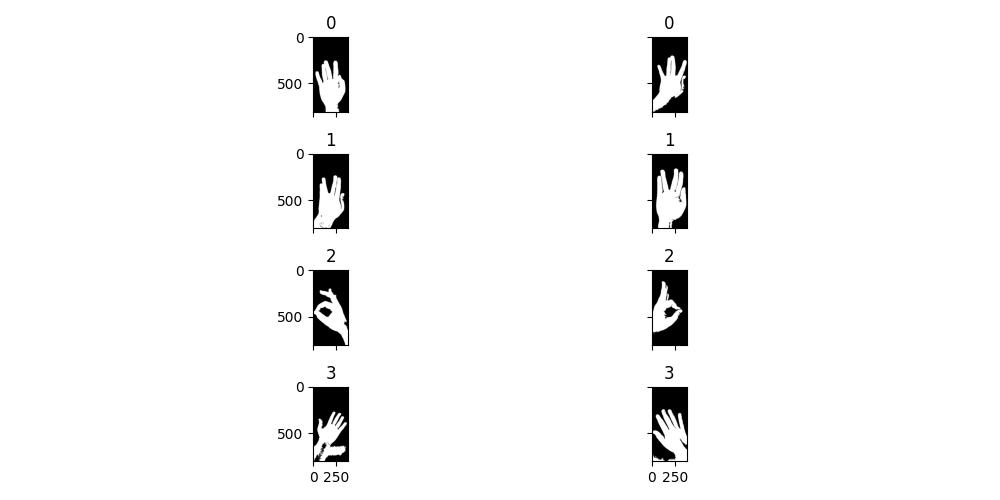
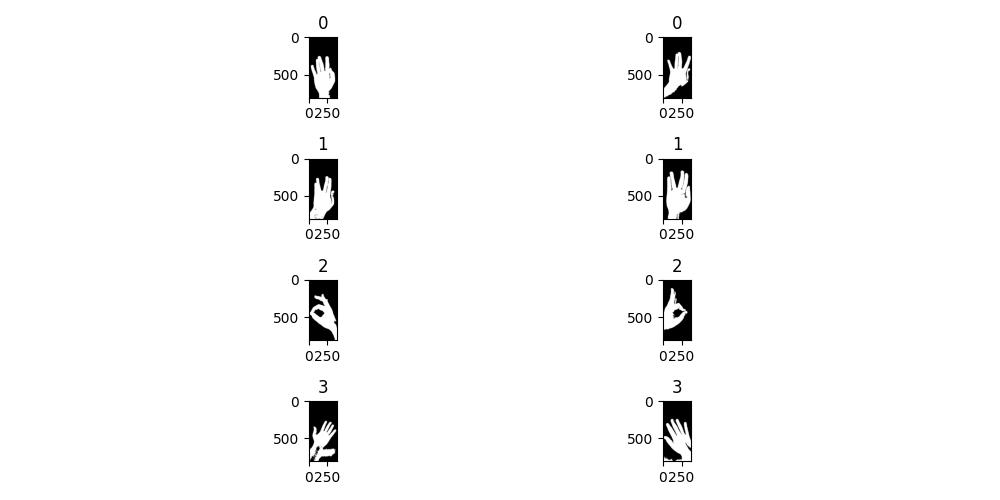
Feature: SVM

diff --git a/main.py b/main.py
@@ -1,4 +1,7 @@
 import src.database as database
+import src.features as features
+import src.classification as classification
+import src.helpers as helpers
 
 # ___________________________________________
 # PARAMETERS
@@ -11,14 +14,26 @@ percent = 8
 # MAIN
 # ___________________________________________
 if __name__ == '__main__':
+    # get data
     dataset_train, labels_train, dataset_test, labels_test, number_classes = database.get_train_and_test_dataset(data_dir, percent, scale_factor)
-    database.dataset_visualisation(dataset_train, labels_train, dataset_test, labels_test, number_classes, percent)
+    # database.dataset_visualisation(dataset_train, labels_train, dataset_test, labels_test, number_classes, percent)
 
     # mask visualisation
     dataset_train_mask, dataset_test_mask = database.dataset_mask(dataset_train, dataset_test)
-    database.dataset_visualisation(dataset_train_mask, labels_train, dataset_test_mask, labels_test, number_classes, percent, '_mask')
+    # database.dataset_visualisation(dataset_train_mask, labels_train, dataset_test_mask, labels_test, number_classes, percent, '_mask')
 
     # find contours and crop
     dataset_train_mask_contour, dataset_train_contour, dataset_test_mask_contour, dataset_test_contour = database.dataset_contours(dataset_train_mask, dataset_test_mask, dataset_train, dataset_test)
-    database.dataset_visualisation(dataset_train_mask_contour, labels_train, dataset_test_mask_contour, labels_test, number_classes, percent, '_mask_contour')
-    database.dataset_visualisation(dataset_train_contour, labels_train, dataset_test_contour, labels_test, number_classes, percent, '_contour')
+    # database.dataset_visualisation(dataset_train_mask_contour, labels_train, dataset_test_mask_contour, labels_test, number_classes, percent, '_mask_contour')
+    # database.dataset_visualisation(dataset_train_contour, labels_train, dataset_test_contour, labels_test, number_classes, percent, '_contour')
+
+    # compute HOG on dataset train original cropped
+    width, height = helpers.get_dimensions_for_resize(dataset_train_contour, dataset_test_contour)
+    train_features, train_images_hog = features.extract_features_hog(dataset_train_contour, width, height, False)
+    test_features, test_images_hog = features.extract_features_hog(dataset_test_contour, width, height, False)
+
+    # classification with SVM
+    clf = classification.svm_classification(train_features, labels_train)
+
+    # prediction
+    classification.prediction(clf, test_features, labels_test)

diff --git a/src/database.py b/src/database.py
@@ -19,24 +19,28 @@ def get_train_and_test_dataset(dataset_dir, percent, scale_factor):
     labels_test = []
 
     # get random indexes
-    random.seed(42)
+    random.seed(42) #42
     indexes = random.sample(range(0, 9), percent)
 
     # read all data and split in train and set based on random indexes
     for class_index in range(len(glob.glob(dataset_dir + '/*'))):
         for index, path in enumerate(glob.glob(dataset_dir + '/' + str(class_index) + '/*')):
             img_original = io.imread(path)
+
             # img_original = helpers.rgb2gray(img_original)
             new_h = int(np.shape(img_original)[0] * scale_factor)
             new_w = int(np.shape(img_original)[1] * scale_factor)
+            img_original = resize(img_original, [new_h, new_w],  anti_aliasing=True)
+
             if index in indexes:
-                dataset_train.append(resize(img_original, [new_h, new_w], anti_aliasing=True))
+                dataset_train.append(img_original)
                 labels_train.append(get_class_by_path(path))
             else:
-                dataset_test.append(resize(img_original, [new_h, new_w], anti_aliasing=True))
+                dataset_test.append(img_original)
                 labels_test.append(get_class_by_path(path))
 
     # return train & test dataset, train & test labels
+    print('Data loaded')
     return dataset_train, labels_train, dataset_test, labels_test, len(glob.glob(dataset_dir + '/*'))
 
 
@@ -102,6 +106,7 @@ def dataset_mask(dataset_train, dataset_test, histogram = False):
     dataset_test_mask = list(map(helpers.hand_mask, dataset_test))
 
     # return mask dataset train & test
+    print('Mask done')
     return dataset_train_mask, dataset_test_mask
 
 
@@ -118,5 +123,6 @@ def dataset_contours(dataset_train_mask, dataset_test_mask, dataset_train, datas
     dataset_train_contour = [i[1] for i in train_packed]
 
     # return contours for masked dataset and for original dataset
+    print('Contours done')
     return dataset_train_mask_contour, dataset_train_contour, dataset_test_mask_contour, dataset_test_contour
 

diff --git a/src/features.py b/src/features.py
@@ -1,0 +1,39 @@
+from skimage.feature import hog
+from skimage import exposure
+import matplotlib.pyplot as plt
+from skimage.transform import resize
+
+def extract_features_hog(dataset, width, height, example=False):
+    images_hog = []
+    features = []
+
+    # for each image extract hog image
+    for image in dataset:
+        # set same dimensions and HOG will return same dimension of features
+        image = resize(image, [height, width])
+
+        fd, hog_image = hog(image, orientations=9, pixels_per_cell=(8, 8),
+                            cells_per_block=(2, 2), visualize=True, channel_axis=-1)
+
+        images_hog.append(hog_image)
+        features.append(fd)
+
+    # see example for one image
+    if example:
+        fig, (ax1, ax2) = plt.subplots(1, 2, figsize=(8, 4))
+
+        ax1.axis('off')
+        ax1.imshow(dataset[0], cmap='gray')
+        ax1.set_title('Input image')
+
+        # Rescale histogram for better display
+        hog_image_rescaled = exposure.rescale_intensity(images_hog[0], in_range=(0, 10))
+
+        ax2.axis('off')
+        ax2.imshow(hog_image_rescaled, cmap=plt.cm.gray)
+        ax2.set_title('Histogram of Oriented Gradients')
+        plt.show()
+        fig.savefig('results/hog_hands_example.jpg')
+
+    print('HOG done')
+    return features, images_hog

diff --git a/src/classification.py b/src/classification.py
@@ -1,0 +1,26 @@
+from sklearn import svm
+from sklearn.metrics import accuracy_score
+import numpy as np
+
+
+def svm_classification(train_features, labels_train):
+    # set parameters for SWM
+    clf = svm.SVC(C=1, kernel='rbf', verbose=True)
+
+    # train step
+    clf.fit(train_features, labels_train)
+
+    # return clf
+    print('SVM classification done')
+    return clf
+
+
+def prediction(clf, test_features, labels_test):
+    predictions = clf.predict(test_features)
+
+    acc = accuracy_score(labels_test, predictions)
+
+    print('Prediction accuracy:', acc * 100, '%')
+    return predictions, acc
+
+# + NN

diff --git a/src/helpers.py b/src/helpers.py
@@ -31,3 +31,18 @@ def hand_contour(img, img_orig):
 
 def crop_img(img, rect):
     return img[rect[1]:(rect[1] + rect[3]), rect[0]:(rect[0] + rect[2])]
+
+def get_dimensions_for_resize(dataset_train, dataset_test):
+    min_w = 0
+    min_h = 0
+    for img in dataset_train:
+        if np.shape(img)[1] > min_w:
+            min_w = np.shape(img)[1]
+            min_h = np.shape(img)[0]
+
+    for img in dataset_test:
+        if np.shape(img)[1] > min_w:
+            min_w = np.shape(img)[1]
+            min_h = np.shape(img)[0]
+
+    return min_w, min_h
